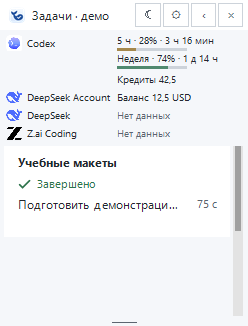
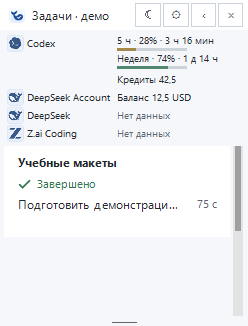
Unify the AI provider badges

Changed region(s): [[0.0282, 0.2761, 0.1129, 0.4294], [0.0282, 0.092, 0.1129, 0.1534]]

diff --git a/native/DshNotifyGui.cs b/native/DshNotifyGui.cs
@@ -459,10 +459,10 @@ public sealed class LimitsPanel : Control
     private const int RowHeight = 18;
     private const int ProviderTextLeft = 27;
     private static readonly CultureInfo AmountCulture = CultureInfo.GetCultureInfo("ru-RU");
-    private static readonly Image DeepSeekLogo = LoadProviderLogo("deepseek.png");
-    private static readonly Image CodexLogo = LoadProviderLogo("codex.png");
-    private static readonly Image ZaiLightLogo = LoadProviderLogo("zai-light.png");
-    private static readonly Image ZaiDarkLogo = LoadProviderLogo("zai-dark.png");
+    private static readonly Image[] DeepSeekBadges = LoadProviderBadges("deepseek");
+    private static readonly Image[] CodexBadges = LoadProviderBadges("codex");
+    private static readonly Image[] ZaiBadges = LoadProviderBadges("zai");
+    private static readonly Image[] GenericBadges = LoadProviderBadges("generic");
     private const TextFormatFlags CompactText = TextFormatFlags.SingleLine | TextFormatFlags.EndEllipsis
         | TextFormatFlags.NoPrefix | TextFormatFlags.NoPadding;
     private List<Dictionary<string, object>> providers = new List<Dictionary<string, object>>();
@@ -508,7 +508,8 @@ public sealed class LimitsPanel : Control
             int top = FirstRowTop;
             foreach (Dictionary<string, object> provider in providers)
             {
-                DrawProviderLogo(graphics, Field(provider, "id"), top);
+                Image badge = ProviderBadge(Field(provider, "id"), ProviderName(provider));
+                if (badge != null) graphics.DrawImage(badge, new Rectangle(6, top, 18, 18));
                 TextRenderer.DrawText(graphics, ProviderName(provider), detail,
                     new Rectangle(ProviderTextLeft, top, dataLeft - ProviderTextLeft - 5, RowHeight),
                     Graphite.Primary, CompactText | TextFormatFlags.VerticalCenter);
@@ -569,7 +570,11 @@ public sealed class LimitsPanel : Control
         if (label == "OpenAI Codex") return "Codex";
         return label.Length == 0 ? Field(provider, "id") : label;
     }
-    private static Image LoadProviderLogo(string filename)
+    private static Image[] LoadProviderBadges(string brand)
+    {
+        return new[] { LoadProviderBadge(brand + "-light.png"), LoadProviderBadge(brand + "-dark.png") };
+    }
+    private static Image LoadProviderBadge(string filename)
     {
         using (Stream stream = typeof(LimitsPanel).Assembly.GetManifestResourceStream("Providers." + filename))
         {
@@ -577,20 +582,17 @@ public sealed class LimitsPanel : Control
             using (Image source = Image.FromStream(stream)) return new Bitmap(source);
         }
     }
-    private static void DrawProviderLogo(Graphics graphics, string id, int top)
+    internal static Image ProviderBadge(string id, string label)
     {
-        Image logo = null;
-        if (id == "deepseek" || id == "deepseek-account") logo = DeepSeekLogo;
-        else if (id == "openai-codex") logo = CodexLogo;
-        else if (id == "zai" || id.StartsWith("zai-", StringComparison.Ordinal))
-            logo = Graphite.IsDark ? ZaiDarkLogo : ZaiLightLogo;
-        if (logo != null)
-        {
-            graphics.DrawImage(logo, new Rectangle(6, top + 1, 16, 16));
-            return;
-        }
-        using (Brush marker = new SolidBrush(Graphite.Secondary))
-            graphics.FillEllipse(marker, new Rectangle(11, top + 6, 6, 6));
+        string route = id.Trim().ToLowerInvariant();
+        string name = label.Trim().ToLowerInvariant();
+        int theme = Graphite.IsDark ? 1 : 0;
+        if (route == "deepseek" || route.StartsWith("deepseek-", StringComparison.Ordinal)
+            || name == "deepseek" || name == "deepseek account") return DeepSeekBadges[theme];
+        if (route == "openai-codex" || name == "openai codex" || name == "codex") return CodexBadges[theme];
+        if (route == "zai" || route.StartsWith("zai-", StringComparison.Ordinal)
+            || name == "z.ai" || name == "z.ai coding") return ZaiBadges[theme];
+        return GenericBadges[theme];
     }
     private static string DisplayAmount(string balance, bool compact)
     {
@@ -2019,8 +2021,15 @@ public sealed class DshNotifyGui : Form
             + "{\"id\":\"running\",\"title\":\"Alpha 2\",\"status\":\"running\"}]}");
         bool rowsReplaced = gui.rows.Controls.Count == 1 && HasText(gui.rows, "Alpha 2");
         gui.Dispose();
+        Image deepSeekBadge = LimitsPanel.ProviderBadge("deepseek-account", "DeepSeek Account");
+        Image codexBadge = LimitsPanel.ProviderBadge("openai-codex", "Codex");
+        Image zaiBadge = LimitsPanel.ProviderBadge("local-z-route", "Z.ai Coding");
+        Image genericBadge = LimitsPanel.ProviderBadge("other", "Другой ИИ");
+        bool providerBadgeAliases = deepSeekBadge != null && codexBadge != null && zaiBadge != null && genericBadge != null
+            && deepSeekBadge == LimitsPanel.ProviderBadge("configured-api-route", "DeepSeek")
+            && new[] { deepSeekBadge, codexBadge, zaiBadge, genericBadge }.Distinct().Count() == 4;
         bool passed = checkbox && position && clamp && settingsRoundTrip && newSettings && iconDrawn
-            && taskIconConsistent && countdown && taskTitle && moveEmitted && moveStored;
+            && taskIconConsistent && providerBadgeAliases && countdown && taskTitle && moveEmitted && moveStored;
         passed = passed && noEcho && allRowsShown && allNoticesShown && interactionIds && registeredIdleFiltered;
         passed = passed && matrix && fieldsHidden && rowsReplaced && compactToggle && noticePresentation
             && completedRowFirst && completedNoticeFirst && noticeHeightAndWidth && fixedWidgetWidth && wholeCardScroll;
@@ -2032,6 +2041,7 @@ public sealed class DshNotifyGui : Form
             + ",\"newSettings\":" + JsonBool(newSettings)
             + ",\"iconDrawn\":" + JsonBool(iconDrawn)
             + ",\"taskIconConsistent\":" + JsonBool(taskIconConsistent)
+            + ",\"providerBadgeAliases\":" + JsonBool(providerBadgeAliases)
             + ",\"countdown\":" + JsonBool(countdown)
             + ",\"taskTitle\":" + JsonBool(taskTitle)
             + ",\"moveEmitted\":" + JsonBool(moveEmitted)

diff --git a/README.md b/README.md
@@ -8,7 +8,7 @@
 - В настройках на вкладке «Состояния» включите «Без задач», если хотите видеть пустые рабочие области.
 - Потяните за нижнюю кромку, чтобы изменить высоту виджета. Перетащите окно уведомлений за заголовок. Виджет запоминает положение обоих окон.
 - В заголовке есть переключатель светлой и тёмной темы. Здесь же можно открыть настройки полей, состояний и уведомлений субагентов.
-- На вкладке «Лимиты» можно включить панель и выбрать службы, которые видны над задачами. Слева видны логотип и название службы. Справа отображаются процент и время до сброса, кредиты или баланс. Для длинных сумм виджет показывает до двух знаков после запятой, а в подсказке сохраняет исходное значение.
+- На вкладке «Лимиты» можно включить панель и выбрать службы, которые видны над задачами. Слева видны название и логотип службы на одинаковой округлой подложке. Справа отображаются процент и время до сброса, кредиты или баланс. Для длинных сумм виджет показывает до двух знаков после запятой, а в подсказке сохраняет исходное значение.
 - Синий значок с китом и галочкой используется в заголовке, на панели задач и рядом с часами. Через значок рядом с часами можно снова открыть скрытое окно.
 
 ## Как выглядит

diff --git a/assets/providers/SOURCES.md b/assets/providers/SOURCES.md
@@ -1,10 +1,12 @@
-# Provider logos
+# Provider badges
 
-The four PNGs are 64 px renditions of assets from [Lobe Icons 2.10.0](https://github.com/lobehub/lobe-icons/tree/9752d967494e48d8f83f2808feb2b0207bf70997), distributed as @lobehub/icons-static-png. The collection's MIT license is included in LICENSE-Lobe-Icons.txt. The logos identify their respective services.
+The DeepSeek, Codex and Z.ai silhouettes come from [Lobe Icons 2.10.0](https://github.com/lobehub/lobe-icons/tree/9752d967494e48d8f83f2808feb2b0207bf70997), distributed as @lobehub/icons-static-png. The included MIT license applies to the source artwork.
 
-| Local file | Source in the package |
+The 64 px light and dark badges retain the original brand shapes. Their ink color, margins and rounded container are adapted for the widget.
+
+| Local files | Source in the package |
 | --- | --- |
-| deepseek.png | light/deepseek-color.png |
-| codex.png | light/codex-color.png |
-| zai-light.png | light/zai.png |
-| zai-dark.png | dark/zai.png |
+| deepseek-light.png, deepseek-dark.png | light/deepseek.png |
+| codex-light.png, codex-dark.png | light/codex.png |
+| zai-light.png, zai-dark.png | light/zai.png |
+| generic-light.png, generic-dark.png | Original neutral mark for other providers |
